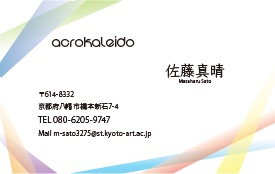
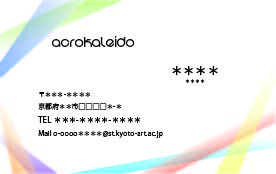
a

diff --git a/subjects/swnwb1.html b/subjects/swnwb1.html
@@ -26,25 +26,39 @@
         <h1 id="ML">メディアリテラシー基礎</h1>
         <div class="session">
           <h2>Session:1</h2>
-          <h3>課題：Photoshopでトップページ画像を作成する</h3>
+          <h3>イラストレーター</h3>
           <p>
-            ここにどのようにして，課題を作成したのか？を記述してください．
-            <br>写真を入れたり，動画を埋め込んだりするととてもいい．
+            線一つ満足に引けない、形をなぞり方もよくわからない、「あんかー」なんだそれ？
+            <br>初めて使ったときは上の様な状態だった気もします。
+            <br>
           </p>
         </div>
         <div class="session">
           <h2>Session:2</h2>
-          <h3>WebPageの構造</h3>
-          <p>HTMLを使ったWebPageの構造を、</p>
-          <ul>
-            <li>どのように作ったか？</li>
-            <li>自分なりのこだわりは？</li>
-          </ul>
+          <h3>名刺作り</h3>
+          <p>自分の会社名を考えて、そこの名刺を作る。
+            <br>僕は晴れて会社「ACROKALEID」の社長となりました。
+            <br><img src="../assets/images/namecard.jpg" alt style="width: 400px;">
+            <br>ちなみに”ACRO"は先進的なとか、飛躍。
+            <br>”KALEID"は万華鏡を意味します。
+            <br>物事は見方を変えれば全く違うものに見える。
+            <br>そのための視点を提供する。って感じかなと思ってます。
+          </p>
         </div>
         <div class="session">
           <h2>Session:3</h2>
-          <h3>スタイルをあてる</h3>
-          <p>スタイル（デザイン）を反映して、Pageを公開する</p>
+          <h3>Web制作</h3>
+          <p>このページを公開する。
+            <br>Html・CSS。どう見ても何かの暗号。
+            <br>説明されたところで理解できる気がしない。
+            <br>
+            <br>と思っていたのも束の間。
+            <br>実際にVisual Studio Codeで色々といじってみると、思ってたより難しくないのでは、って思えてきた。
+            <br>でも、今回は配布された型の様なものがあったし、自分で一から作っていくとなると、こうは行かないのかなとも思う。
+            <br>
+            <br>この課題を通して、新しい可能性に気づくことができたと思う。
+            <br>これはもう少し調べたりして、知識を付けたい。
+          </p>
         </div>
 
         <h1 id="PL">プランニング基礎</h1>
@@ -97,6 +111,50 @@
             <br>ただ、彼には、
             <br>リアクションの達人からリアクションについて学んで欲しい。
             <br>（あまり人のことは言えないけど。）
+          </p>
+        </div>
+
+        <h1 id="PT">プロトタイピング基礎</h1>
+        <div class="session">
+          <h2>Session:1</h2>
+          <h3>レーザー加工</h3>
+          <p>
+            イラストレーターで書いた絵を元にレーザーで加工して切り出す。
+            <br>オンラインでの実施でどうやるのかとも思っていたけど、割と簡単にできた。
+            <br>インターネットは偉大。
+            <br><img src="./assets/images/IMG_0214.jpg" alt="画像" width="500" height="500">
+            <br>第三案「ロケット」
+            <br>
+            <br>元々は魚の頭だったり、宇宙船の脱出ポッドだったりもしたけれど、紆余曲折を経てロケットに。
+            <br>この写真は我ながら良い出来だと思う。(作品より背景に目が行く気もするけど。)
+            <br>後ろの時計は前に貰ったもの。可愛い。
+          </p>
+        </div>
+        <div class="session">
+          <h2>Session:2</h2>
+          <h3>パラメトリックな設計-鳥居-</h3>
+          <p><a href="https://www.tinkercad.com/dashboard"><font color="#00F">TinkerCAD</font></a>を使って鳥居の3Dモデルを作成。
+          <br>直感的に立体を作っていけるのは楽しかった。
+          <br>コードブロックを使うことで思いもよらない立体を作り出すこともできた。
+          <br>
+          <br>あとはこれを提出して3Dプリンタで出力するだけのはずだったのだが、
+          <br>こっちのミスでうまく提出できておらず、立体化はされなかった。
+          <br>
+          <br>気づいた時は Σ(゜Д゜）ってなった。
+          <br>
+          <br>提出の確認は大切。
+          <br>
+        </p>
+        </div>
+        <div class="session">
+          <h2>Session:3</h2>
+          <h3>ドアオープナーの制作</h3>
+          <p>コロナの影響で需要が増えたこの製品。
+            <br>今度もイラストレーターで描いた図を元に機械で加工し、作った。
+            <br><img src="./assets/images/IMG_0224.jpg" alt="画像" width="400">
+            <br>完成して届いたものを、ちょうど飲み終わったモンスターの上に載せて見た。
+            <br>二つの三日月が交差している様なこのデザイン。色々試しているうちに生まれた偶然の産物だが、なかなか良い感じだと思っている。
+
           </p>
         </div>
       </main>

diff --git a/cv.html b/cv.html
@@ -25,14 +25,31 @@
       <main>
         <h1>自己紹介</h1>
         <div class="mb_l">
-          <p>私は佐藤真晴です。</p>
-          <p>私は19歳です。</p>
+          <p>私は＊＊＊＊です。
+          <br>
+          <br>・・・誰だよ！
+          <br>
+          <br>なんかインターネット上に実名を晒すってのはあまりやりたくなかってのでこうしました。
+          <br>
+          <br>これを評価してくださる先生方には僕が誰かわかっていると思うので
+          <br>＊＊＊＊でも良いかなって思ってます。</p>
+          <br>
+          <p>私は今、19歳。大学の一回生です。</p>
           <p>
-            私は，36歳の妻と，6歳の三毛猫と，3歳の息子と同居しています．
-            <br>息子は「ギャーギャー」ととてもうるさいため，猫はいつも寝室に避難しています．
-            <br>妻と猫は相思相愛なので，妻の後ろを金魚のフンのように付いて回りますが，私に懐いていません．
+            理想と現実の狭間を彷徨しつつ、それを現実に落とし込む方法を探しています。
+            <br>
+            <br><s>最近は、</s>一年と少し前から<a href="https://tkool.jp/mv/"><font color="#00F">ツクール</font></a>で遊んでいます。
+            <br>最近、新しい製品が出たということで操作の練習もかねてRPGを作っています。
+            <br>敵キャラは原画を<a href="https://kuad-xtechdesign.github.io/simple-page-chikos/cv.html"><font color="#00F">Chiko</font></a>さんが描いてくれています。
+            <br>なかなか独特なので、ぜひ見て見てください。
+            <br><img src="./assets/images/ham.jpg" alt="" width="350" height="350">
+            <br>ハムスターだそうです。
           </p>
         </div>
+        <br>さて、最近インスタをはじめました。
+        <br>というのも、こうやって個人のページを作るのなら、そこに何かしらへのリンクを貼ってみたいなと思ったからです。
+        <br>
+        <br>まぁ、だからと言ってこれっきりにするのも、もったいないので、気が向いたときにでも色々とやっていきたいと思ってます。
         <a href="https://www.instagram.com/ma.pple0420/" target="_blank"><font color="#00F">これだけのために作ったインスタ</font>
           <br><img src="./assets/images/Insta.jpg" alt=""　width="0.001">
           </a>

diff --git a/index.html b/index.html
@@ -31,7 +31,7 @@
           <ol>
             <li><a href="./subjects/swnwb1.html#ML">メディアリテラシー基礎</a></li>
             <li><a href="./subjects/swnwb1.html#PL">プランニング基礎</a></li>
-            <li><a href="./subjects/swnwb1.html">プロトタイピング基礎</a></li>
+            <li><a href="./subjects/swnwb1.html＃PT">プロトタイピング基礎</a></li>
           </ol>
         </div>
         <div class="period">
